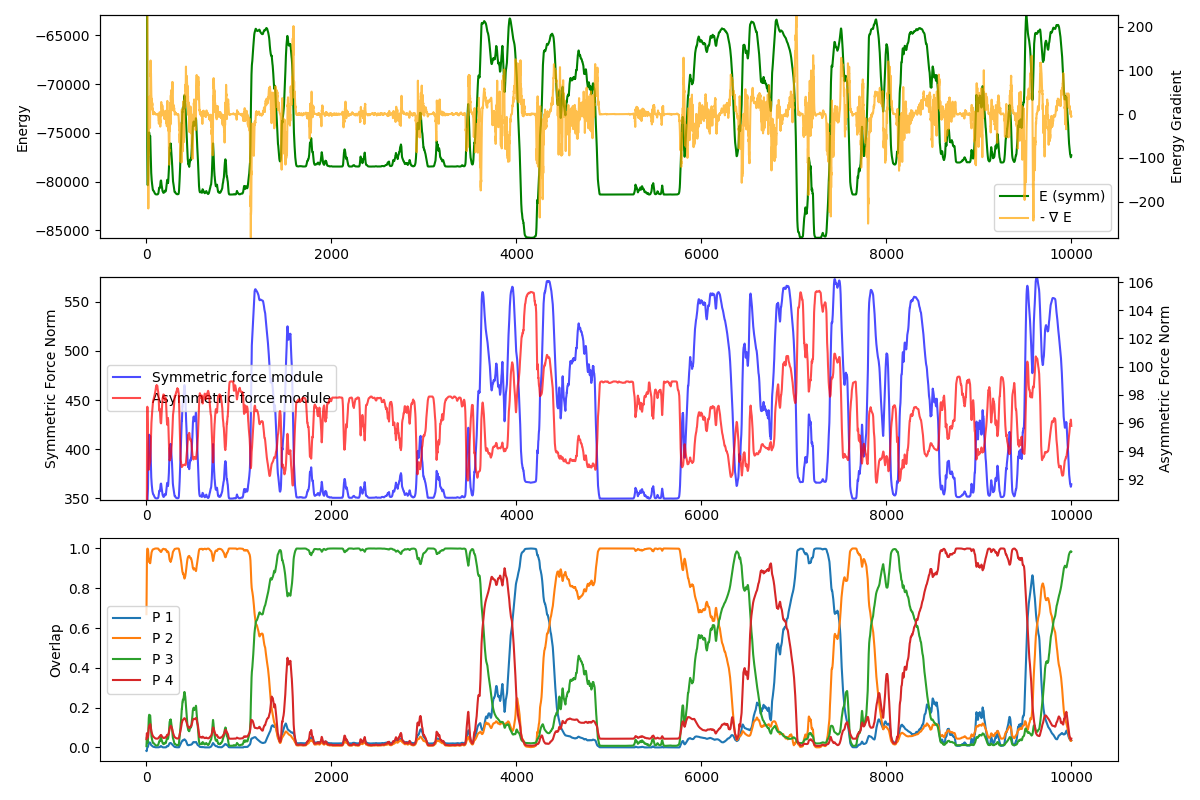
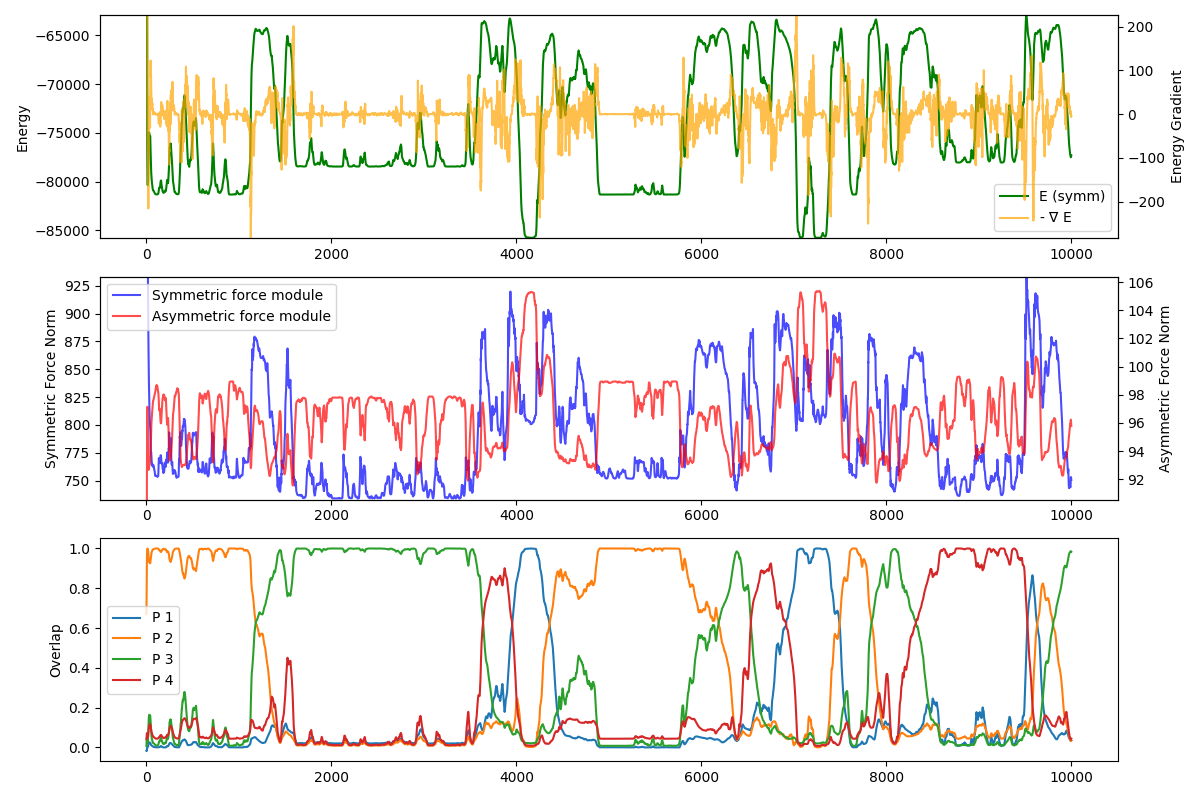
save

diff --git a/src/modules/energy.py b/src/modules/energy.py
@@ -36,8 +36,10 @@ def compute_energy(
     activation_term=True
 ):
     """
-    Compute total energy E(h) = -0.5 * h^T W h + sum_i ∫₀^{h_i} phi⁻¹(x) dx (/ tau ?)
+    h = phi(u) is the firing rate vector
+    Compute total energy E(u) = -0.5 * phi(u)^T W phi(u) + sum_i ∫₀^{phi(u_i)} phi⁻¹(x) dx 
     using lookup-table interpolation for fast integration.
+    
 
     Args:
         W: (N x N) connectivity matrix
@@ -93,8 +95,8 @@ def compute_energy(
 def compute_forces(W_symm, W_asymm, h, tau=1.0, phi_beta=1.5, phi_r_m=30.0, phi_x_r=2.0):
     """
     Compute the symmetric and asymmetric forces for all neurons:
-    F_symm_i(h) = sum_j W^S_ij * phi_j(h_j) - h_i (/ tau ?)
-    F_asymm_i(h) = sum_j W^A_ij * phi_j(h_j)
+    F_symm_i(u) = phi'(u_i) * [sum_j W^S_ij * phi_j(u_j) - u_i]
+    F_asymm_i(u) = sum_j W^A_ij * phi_j(u_j)
     
     Args:
         W: (N x N) connectivity matrix
@@ -106,13 +108,14 @@ def compute_forces(W_symm, W_asymm, h, tau=1.0, phi_beta=1.5, phi_r_m=30.0, phi_
         F_asymm: (M x N) array of asymmetric forces for each state, or (N,) single state
     """
     h, single_state, M, N = normalize_shape(h)
+    u = inverse_sigmoid_function(h, r_m=phi_r_m, beta=phi_beta, x_r=phi_x_r)
 
     # Compute activation function values
-    phi_h = sigmoid_function(h, r_m=phi_r_m, beta=phi_beta, x_r=phi_x_r)
+    phi_deriv_u = derivative_sigmoid_function(u, r_m=phi_r_m, beta=phi_beta, x_r=phi_x_r)
 
     # Compute forces
-    F_symm = (W_symm @ phi_h.T).T - h # Shape: (M, N)
-    F_asymm = (W_asymm @ phi_h.T).T         # Shape: (M, N)
+    F_symm =  phi_deriv_u * ((W_symm @ h.T).T - h) # Shape: (M, N)
+    F_asymm = phi_deriv_u * (W_asymm @ h.T).T         # Shape: (M, N)
 
     # Compute the average value of the forces (integrate over the path) F_avg = ∫ F(h) dh / ∫ dh
     dh = np.linalg.norm(np.diff(h, axis=0), axis=1)  # Shape: (M-1,)
@@ -125,7 +128,7 @@ def compute_forces(W_symm, W_asymm, h, tau=1.0, phi_beta=1.5, phi_r_m=30.0, phi_
     else:
         return F_symm, F_asymm, F_symm_avg, F_asymm_avg
 
-def plot_energy_from_npy(files, W, neuron1=0, neuron2=1, phi_beta=1.5, phi_r_m=30.0, phi_x_r=2.0):
+def plot_energy_from_npy(files, W_symm, W_asymm, tau, neuron1=0, neuron2=1, phi_beta=1.5, phi_r_m=30.0, phi_x_r=2.0):
     """
     Load firing rate data from multiple .npy files, compute energy, and plot 3D scatter
     of energy vs two selected neurons.
@@ -137,6 +140,10 @@ def plot_energy_from_npy(files, W, neuron1=0, neuron2=1, phi_beta=1.5, phi_r_m=3
         phi_beta, phi_r_m, phi_x_r: parameters for compute_energy
     """
     energies_list = []
+    f_symm_list1 = []
+    f_asymm_list1 = []
+    f_symm_list2 = []
+    f_asymm_list2 = []
     rates_n1 = []
     rates_n2 = []
 
@@ -145,19 +152,31 @@ def plot_energy_from_npy(files, W, neuron1=0, neuron2=1, phi_beta=1.5, phi_r_m=3
         # Ensure h shape is (states, neurons)
         if h.ndim == 1:
             h = h.reshape(1, -1)
-        elif h.shape[0] == W.shape[0]:
+        elif h.shape[0] == W_symm.shape[0]:
             h = h.T  # transpose (neurons x time) → (time x neurons)
-        elif h.shape[1] != W.shape[0]:
-            raise ValueError(f"Incompatible shape: {h.shape} vs W {W.shape}")
+        elif h.shape[1] != W_symm.shape[0]:
+            raise ValueError(f"Incompatible shape: {h.shape} vs W {W_symm.shape}")
         
         # Compute energy for each time point/state
-        E, _, _ = compute_energy(W, h, phi_beta=phi_beta, phi_r_m=phi_r_m, phi_x_r=phi_x_r)
+        E, _, _ = compute_energy(W_symm, h, phi_beta=phi_beta, phi_r_m=phi_r_m, phi_x_r=phi_x_r)
+        # Compute forces and plot the vectors (project on the plane of neuron1 and neuron2)
+        F_symm, F_asymm, _, _ = compute_forces(W_symm, W_asymm, h, tau= tau, phi_beta=phi_beta, phi_r_m=phi_r_m, phi_x_r=phi_x_r)
+        # Store energies and selected neuron rates
         
         energies_list.extend(E)
+        # Force component for neuron1 and neuron2
+        f_symm_list1.extend(F_symm[:, neuron1])  # Force component for neuron1 
+        f_asymm_list1.extend(F_asymm[:, neuron1])  # Force component for neuron1 
+        f_symm_list2.extend(F_symm[:, neuron2])  # Force component for neuron2
+        f_asymm_list2.extend(F_asymm[:, neuron2])  # Force component for neuron2
         rates_n1.extend(h[:, neuron1])
         rates_n2.extend(h[:, neuron2])
 
     energies_list = np.array(energies_list)
+    f_symm_list1 = np.array(f_symm_list1)
+    f_asymm_list1 = np.array(f_asymm_list1)
+    f_symm_list2 = np.array(f_symm_list2)
+    f_asymm_list2 = np.array(f_asymm_list2)
     rates_n1 = np.array(rates_n1)
     rates_n2 = np.array(rates_n2)
 
@@ -165,6 +184,9 @@ def plot_energy_from_npy(files, W, neuron1=0, neuron2=1, phi_beta=1.5, phi_r_m=3
     fig = plt.figure(figsize=(8,6))
     ax = fig.add_subplot(111, projection='3d')
     sc = ax.scatter(rates_n1, rates_n2, energies_list, c=energies_list, cmap='viridis', s=40)
+    # plot the vectors of the forces
+    ax.quiver(rates_n1, rates_n2, energies_list, f_symm_list1, f_symm_list2, np.zeros_like(energies_list), color='blue', length=0.5, normalize=True, label='Symmetric Force')
+    ax.quiver(rates_n1, rates_n2, energies_list, f_asymm_list1, f_asymm_list2, np.zeros_like(energies_list), color='red', length=0.5, normalize=True, label='Asymmetric Force')
 
     ax.set_xlabel(f'Neuron {neuron1+1} firing rate')
     ax.set_ylabel(f'Neuron {neuron2+1} firing rate')

diff --git a/src/energy_plots.py b/src/energy_plots.py
@@ -62,7 +62,7 @@ from parameters import (
     )
 
 def main():
-    output_dir = os.path.join(os.path.dirname(__file__), "..", "simulation_results")
+    output_dir = os.path.join(os.path.dirname(__file__), "..", "simulation_results_silly")
     npy_dir = os.path.join(output_dir, "npy")
 
     # Calculate and plot energy
@@ -116,10 +116,10 @@ def main():
     # Energy on left y-axis
     ax1.plot(t, E_symm_traj, label='E (symm)', color='green')
     ax1.set_ylabel("Energy")
-    ax1.set_ylim(min(E_symm_traj[100:]) - 10, max(E_symm_traj[100:]) + 10)
+    ax1.set_ylim(min(E_symm_traj[300:]) - 10, max(E_symm_traj[300:]) + 10)
     ax2.plot(t, energy_gradient, label='- $\\nabla$ E', color='orange', alpha=0.7)
     ax2.set_ylabel("Energy Gradient")
-    ax2.set_ylim(min(energy_gradient[100:]) - 1, max(energy_gradient[100:]) + 1)
+    ax2.set_ylim(min(energy_gradient[300:]) - 1, max(energy_gradient[300:]) + 1)
     lines1, labels1 = ax1.get_legend_handles_labels()
     lines2, labels2 = ax2.get_legend_handles_labels()
     ax1.legend(lines1 + lines2, labels1 + labels2, loc="best")
@@ -127,13 +127,15 @@ def main():
     # --- Subplot: Forces (symmetrical and asymmetrical) --- 
     ax1 = plt.subplot(312)
     ax2 = ax1.twinx()  # create second y-axis 
-    ax1.plot(t, F_symm_norm, label='Symmetric force module', color='blue', alpha=0.7)
-    ax2.plot(t, F_asymm_norm, label='Asymmetric force module', color='red', alpha=0.7)
-    ax1.set_ylabel("Symmetric Force Norm")
-    ax2.set_ylabel("Asymmetric Force Norm")
+    ax1.plot(t, F_symm_norm, label='$|F^{symm}|$', color='blue', alpha=0.7)
+    ax2.plot(t, F_asymm_norm, label='$|F^{asymm}|$', color='red', alpha=0.7)
+    ax1.plot(t, np.full_like(t, 0.0), linestyle='--', color='gray', alpha=0.5)  # horizontal line at y=0
+    ax1.set_ylabel("$|F^{symm}|$")
+    ax2.set_ylabel("$|F^{asymm}|$")
     # ylims with min and max
-    ax1.set_ylim(min(F_symm_norm[100:]) - 1, max(F_symm_norm[100:]) + 1)
-    ax2.set_ylim(min(F_asymm_norm[100:]) - 1, max(F_asymm_norm[100:]) + 1)
+    ax1.set_ylim(-100, max(F_symm_norm[100:]) + 1)
+    ax2.set_ylim(-100, max(F_symm_norm[100:]) + 1)
+    # ax2.set_ylim(min(F_asymm_norm[100:]) - 1, max(F_asymm_norm[100:]) + 1)
 
     lines1, labels1 = ax1.get_legend_handles_labels()
     lines2, labels2 = ax2.get_legend_handles_labels()

diff --git a/src/energy_landscape.py b/src/energy_landscape.py
@@ -56,10 +56,11 @@ from parameters import (
 def main():
     multiple_sim_dir = os.path.join(os.path.dirname(__file__), "..", f'{"multiple_simulations_"}{N}', "npy")
     W_symm = np.load(os.path.join(multiple_sim_dir, "connectivity_symmetric.npy"))
+    W_asymm = np.load(os.path.join(multiple_sim_dir, "connectivity_asymmetric.npy"))
     files_dir = os.path.join(os.path.join(multiple_sim_dir, "firing_rates"))
     files = [os.path.join(files_dir, f) 
                 for f in os.listdir(files_dir) if f.endswith('.npy')]
-    fig = plot_energy_from_npy(files, W_symm, phi_beta=phi_beta, phi_r_m=phi_r_m, phi_x_r=phi_x_r)
-    fig.savefig(os.path.join(multiple_sim_dir, "landscape.pdf"))
+    fig = plot_energy_from_npy(files, W_symm, W_asymm, tau, phi_beta=phi_beta, phi_r_m=phi_r_m, phi_x_r=phi_x_r)
+    fig.savefig(os.path.join(multiple_sim_dir, "landscape.png"))
 if __name__ == "__main__":
     main()

diff --git a/src/simulation.py b/src/simulation.py
@@ -374,6 +374,7 @@ def simulation():
         np.save(os.path.join(npy_dir, "ou_process.npy"), zeta_array)
     
     # Calculate and save firing rates
+    np.save(os.path.join(npy_dir, "neural_currents.npy"), u)
     phi_u = sigmoid_function(u, r_m=phi_r_m, beta=phi_beta, x_r=phi_x_r)
     np.save(os.path.join(npy_dir, "firing_rates.npy"), phi_u)
     
